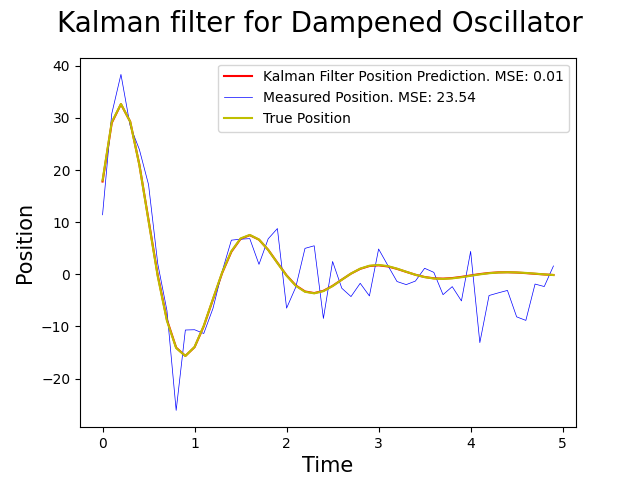
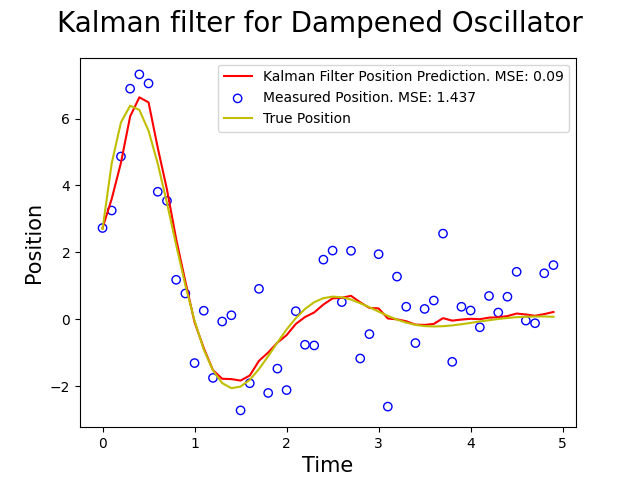
changed measurement to scatter plot. Fixed bug where position and velocity standard deviations were not correctly calculated. Changed measurement noise covariance to guess for dampened oscillator to increase mse

diff --git a/kalman-filter.py b/kalman-filter.py
@@ -189,7 +189,7 @@ class FallingObject(System):
     def process_noise(self) -> np.ndarray:
         """The n x 1 normally distributed process noise w representing noise in the state of the system."""
         std_position = self.std_acc * (self.dt)**2 / 2
-        std_velocity = self.dt
+        std_velocity = self.std_acc *self.dt
         position_noise = np.random.normal(0, std_position)
         velocity_noise = np.random.normal(0, std_velocity)
         return np.array([[position_noise],[velocity_noise]])
@@ -198,8 +198,8 @@ class FallingObject(System):
         """The n x n covairance uncertainty matrix Q from the environment.
         It is assumed that the process noise w is distributed w ~ N(0,Q)."""
         std_position = self.std_acc * (self.dt)**2 / 2
-        std_velocity = self.dt
-        return np.array([[std_position**2, std_position*std_velocity],[std_position*std_velocity, std_velocity**2]]) * self.std_acc ** 2
+        std_velocity = self.std_acc *self.dt
+        return np.array([[std_position**2, std_position*std_velocity],[std_position*std_velocity, std_velocity**2]])
 
     def transformation_matrix(self) -> np.ndarray:
         """The m x n transformation matrix H.
@@ -230,13 +230,13 @@ class DampenedOscillator(System):
     If equal, the system is critically dampened. Otherwise it is over dampened.
     Solves ode: mass*x'' + dampening_coeff*x' + spring_constant*x = 0."""
     def __init__(self, initial_position: float = 0,
-                 initial_velocity: float = 200,
+                 initial_velocity: float = 30,
                  dt: float = 0.1,
                  mass: float = 1,
                  dampening_coeff: float = 2,
-                 spring_constant: float = 20,
+                 spring_constant: float = 9,
                  std_acc: float = 0.25,
-                 std_measurement: float = 5):
+                 std_measurement: float = 1.2):
         self.dt = dt
         self.mass = mass # m
         self.dampending_coeff = dampening_coeff # b
@@ -261,7 +261,7 @@ class DampenedOscillator(System):
     def process_noise(self) -> np.ndarray:
         """The n x 1 normally distributed process noise w representing noise in the state of the system."""
         std_position = self.std_acc * (self.dt)**2 / 2
-        std_velocity = self.dt
+        std_velocity = self.std_acc *self.dt
         position_noise = np.random.normal(0, std_position)
         velocity_noise = np.random.normal(0, std_velocity)
         return np.array([[position_noise],[velocity_noise]])
@@ -270,8 +270,8 @@ class DampenedOscillator(System):
         """The n x n covairance uncertainty matrix Q from the environment.
         It is assumed that the process noise w is distributed w ~ N(0,Q)."""
         std_position = self.std_acc * (self.dt)**2 / 2
-        std_velocity = self.dt
-        return np.array([[std_position**2, std_position*std_velocity],[std_position*std_velocity, std_velocity**2]]) * self.std_acc ** 2
+        std_velocity = self.std_acc * self.dt
+        return np.array([[std_position**2, std_position*std_velocity],[std_position*std_velocity, std_velocity**2]])
 
     def transformation_matrix(self) -> np.ndarray:
         """The m x n transformation matrix H.
@@ -285,7 +285,8 @@ class DampenedOscillator(System):
 
     def measurement_noise_cov(self) -> np.ndarray:
         """The m x m covariance of the measurement noise R. It is assume that v ~ N(0,R)."""
-        return np.array([[self.std_measurement**2]])
+        std_measurement_guess = 0.05 # If the guess is too low, the filter will trust the measurement more
+        return np.array([[std_measurement_guess**2]])
 
     def control_vector(self) -> np.ndarray:
         """The p x 1 control vector u.
@@ -403,7 +404,7 @@ def plot_predictions(n_iters: int,
     fig = plt.figure()
     plt.plot(time, predicted_observables, label=f"Kalman Filter Position Prediction. MSE: {round(kalman_mse,2)}", color='r', linewidth=1.5)
     fig.suptitle(f"Kalman filter for {title}", fontsize=20)
-    plt.plot(time, measurements, label=f"Measured Position. MSE: {round(measurement_mse,2)}", color='b',linewidth=0.5)
+    plt.scatter(time, measurements, label=f"Measured Position. MSE: {round(measurement_mse,3)}", facecolors='none', color='b')
     plt.plot(time, true_observales, label='True Position', color='y', linewidth=1.5)
     plt.xlabel('Time', fontsize=15)
     plt.ylabel('Position', fontsize=15)
